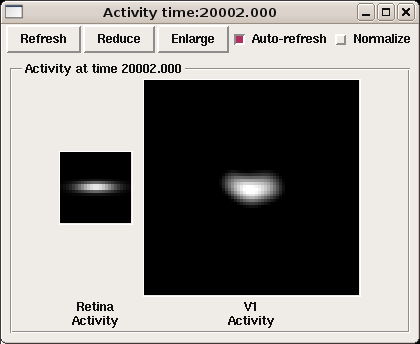
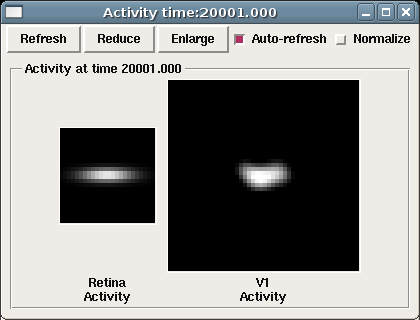
Updated tutorial screenshots and recorded time to measure an OR map as about 30 sec.

Changed region(s): [[0.0, 0.0, 1.0, 0.9688], [0.5262, 0.5, 0.7119, 0.5938], [0.9905, 0.9688, 1.0, 1.0]]

diff --git a/doc/Tutorial/text.php b/doc/Tutorial/text.php
@@ -1,5 +1,3 @@
-<!-- CEBHACKALERT -->
-<!-- THE IMAGES ARE FOR A 72x72 NETWORK -->
 
 <!-- TO DO: fix indentation; make standards-compliant so it will -->
 <!-- display properly on different browsers (I'll fix spacing at the -->
@@ -77,7 +75,7 @@ This will present an an oriented 2D Gaussian.
 <li>To see the result, select <span class='t_item'>Activity</span> from
 the <span class='t_item'>Plots</span> menu on the <span class='w_title'>Topographica Console</span> to get:
 <p class='center'>
-<img src="images/activity_gaussian.png" alt="Response to Gaussian" align="middle" height="344" width="420">
+<img src="images/activity_gaussian.png" alt="Response to Gaussian" align="middle" width="420" height="320">
 </p>
 
 
@@ -109,7 +107,7 @@ the neuron in the center of the cortex (by default):
 
 <p class="center">
 <img src="images/unit_weights_0_0.png" alt="Weights of one
-neuron" align="middle" width="504" height="354">
+neuron" align="middle" width="504" height="305">
 </p>
 
 <p>
@@ -147,12 +145,12 @@ neuron.  A similar procedure can be performed in the model by selecting
 <span class='t_item'>Orientation Preference</span> from the <span class='t_item'>Plot</span> menu:
 
 <p class="center">
-<img src="images/or_map.png" alt="Orientation map" width="553" height="294">&nbsp;&nbsp;&nbsp;
+<img src="images/or_map.png" alt="Orientation map" width="551" height="294">&nbsp;&nbsp;&nbsp;
 <img src="images/or_key_vert_transparent_topo.png" alt="Orientation key" height="294" width="24">
 </p><br>
 
 <P>
-(This will usually take about (**ten) seconds to complete.)
+(This will usually take about 30 seconds to complete.)
 The plot on the left is the orientation map for V1 in this network.
 Each neuron in the plot is color coded by its preferred orientation,
 according to the key to the right.
@@ -180,7 +178,7 @@ at the refreshed image in the <span class='w_title'>Activity</span> window:
 
 <p class="center">
 <img src="images/activity_gaussian_or.png" alt="Sample Gaussian"
-align="middle" width="420" height="344">
+align="middle" width="420" height="320">
 </p>
 
 (Alternatively, if you want to keep the old plot for comparison, you
